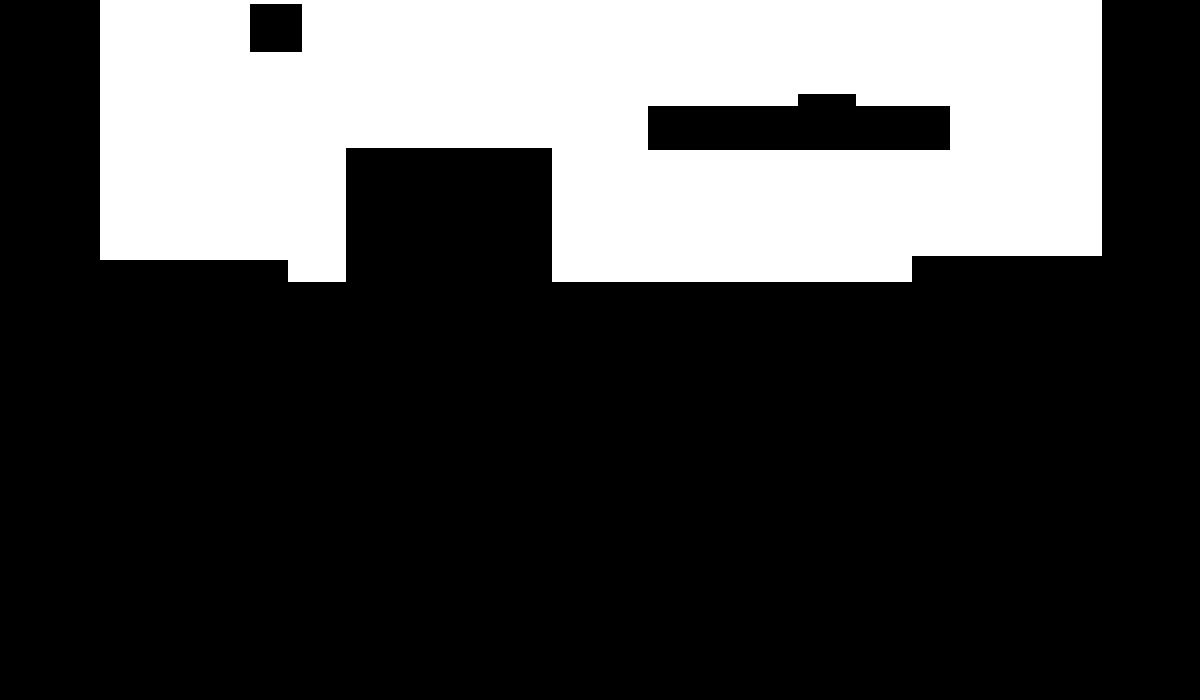
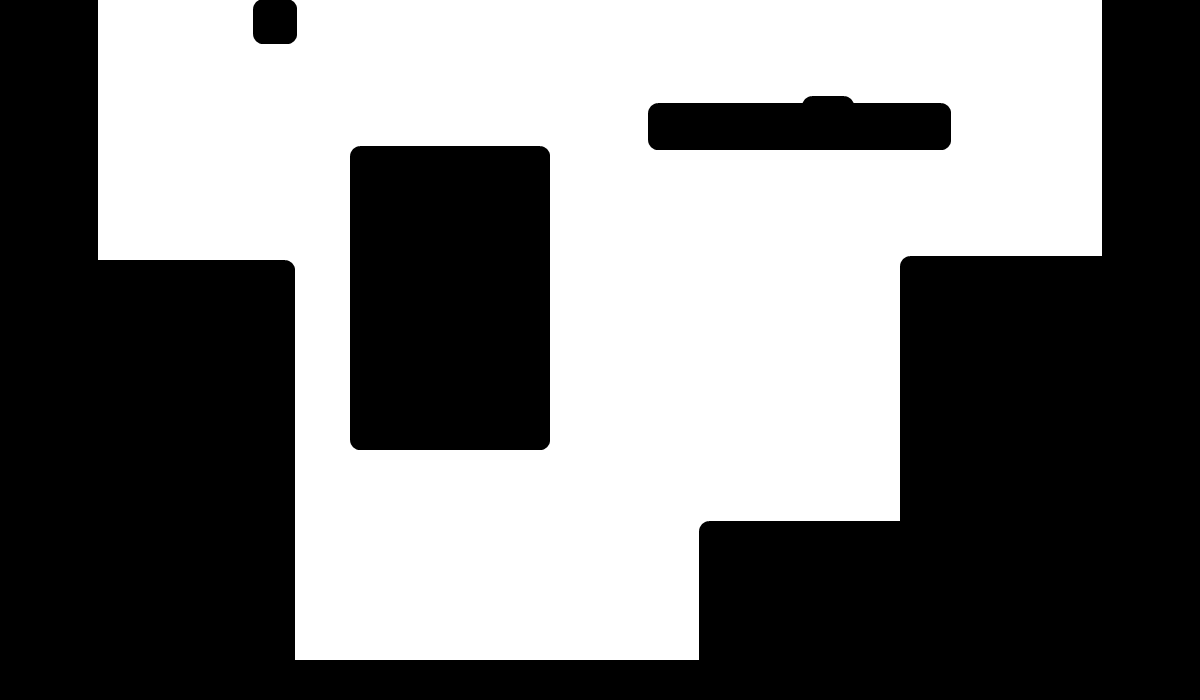
Maps changed + update map when hit edge

diff --git a/src/InGame.java b/src/InGame.java
@@ -9,17 +9,19 @@ class InGame {
 	int black, white, green, backColour;
 	Pokemon p5;
 	String[] background = new String[20];
+	String[] movement = new String[20];
 
 	InGame(Pokemon _p5){
 		p5 = _p5;
-		location = x = y = 6;
+		location = 4;
+		x = y = 0;
 		characterX = p5.width / 2;
-		characterY = p5.height /2;
+		characterY = p5.height * 3/4;
 		radius = 30;
 		step = 10;
 		black = 0;
 		white = -1;
-		green = -16712192;
+		green = -16711936;
 		background[0] = "Pallet Town2B.png";
 		background[1] = "Pallet Town2F.png";
 		background[2] = "Pallet Town1B.png";
@@ -33,8 +35,11 @@ class InGame {
 		background[10] = ".png";
 		background[11] = ".png";
 		background[12] = ".png";
+	
 		map2 = p5.loadImage(background[location]);
 		map1 = p5.loadImage(background[location + 1]);
+		
+		movement[0] = ".png";
 	}
 	
 	void displayMap(){
@@ -51,7 +56,8 @@ class InGame {
 		p5.ellipse(characterX, characterY, radius, radius);
 	}
 	
-	void keyPressed() {				
+	void keyPressed() {	
+		//--------------D----------------------
 		if (p5.key == 'd' && map2.get(characterX + (radius /2), characterY) == white) {
 			characterX = characterX + step;
 			p5.key = 'm';
@@ -61,7 +67,7 @@ class InGame {
 			characterX = characterX + step;
 			p5.key = 'm';
 		}
-		
+		//--------------A----------------------
 		if (p5.key == 'a' && map2.get(characterX - (radius /2), characterY) == white){
 			characterX = characterX - step;
 			p5.key = 'm';
@@ -71,23 +77,44 @@ class InGame {
 			characterX = characterX - step;
 			p5.key = 'm';
 		}
-		
+		//--------------W----------------------
 		if (p5.key == 'w' && map2.get(characterX, characterY - (radius /2)) == white){
+			if(characterY - radius <= 0){
+				location=location + 2;
+				map2 = p5.loadImage(background[location]);
+				map1 = p5.loadImage(background[location + 1]);
+			}
 			characterY = characterY - step;
 			p5.key = 'm';
 		}
 		
-		if(p5.key == 'w' && map2.get(characterX, characterY - (radius /2)) == green){
+		else if(p5.key == 'w' && map2.get(characterX, characterY - (radius /2)) == green){
+			if(characterY - radius <= 0){
+				location=location + 2;
+				map2 = p5.loadImage(background[location]);
+				map1 = p5.loadImage(background[location + 1]);
+			}
 			characterY = characterY - step;
 			p5.key = 'm';
 		}
-
+			
+		//--------------S----------------------
 		if (p5.key == 's' && map2.get(characterX, characterY + (radius /2)) == white) {
+			if(characterY + radius >= p5.height){
+				location=location - 2;
+				map2 = p5.loadImage(background[location]);
+				map1 = p5.loadImage(background[location + 1]);
+			}
 			characterY = characterY + step;
 			p5.key = 'm';
 		}
 		
-		if(p5.key == 's' && map2.get(characterX, characterY + (radius /2)) == green){
+		else if(p5.key == 's' && map2.get(characterX, characterY + (radius /2)) == green){
+			if(characterY + radius >= p5.height){
+				location=location - 2;
+				map2 = p5.loadImage(background[location]);
+				map1 = p5.loadImage(background[location + 1]);
+			}
 			characterY = characterY + step;
 			p5.key = 'm';
 		}
